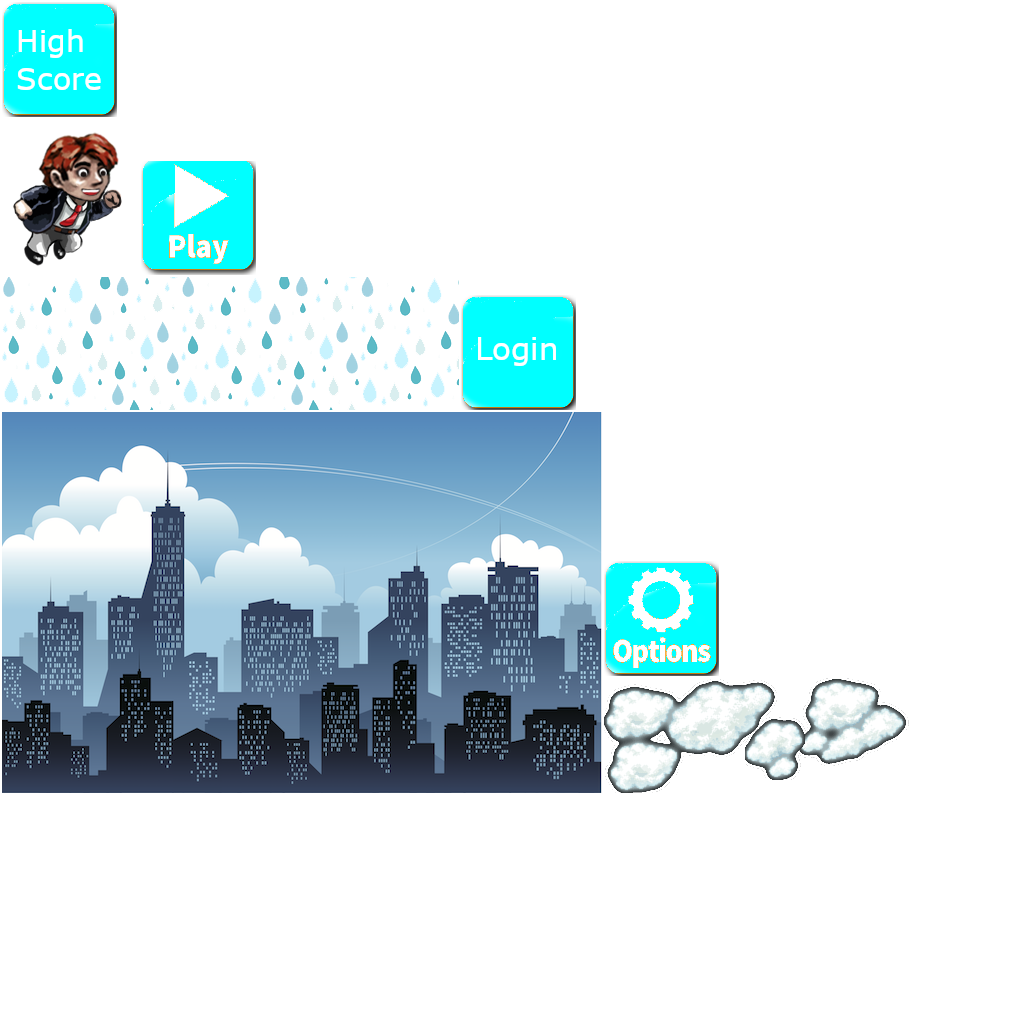
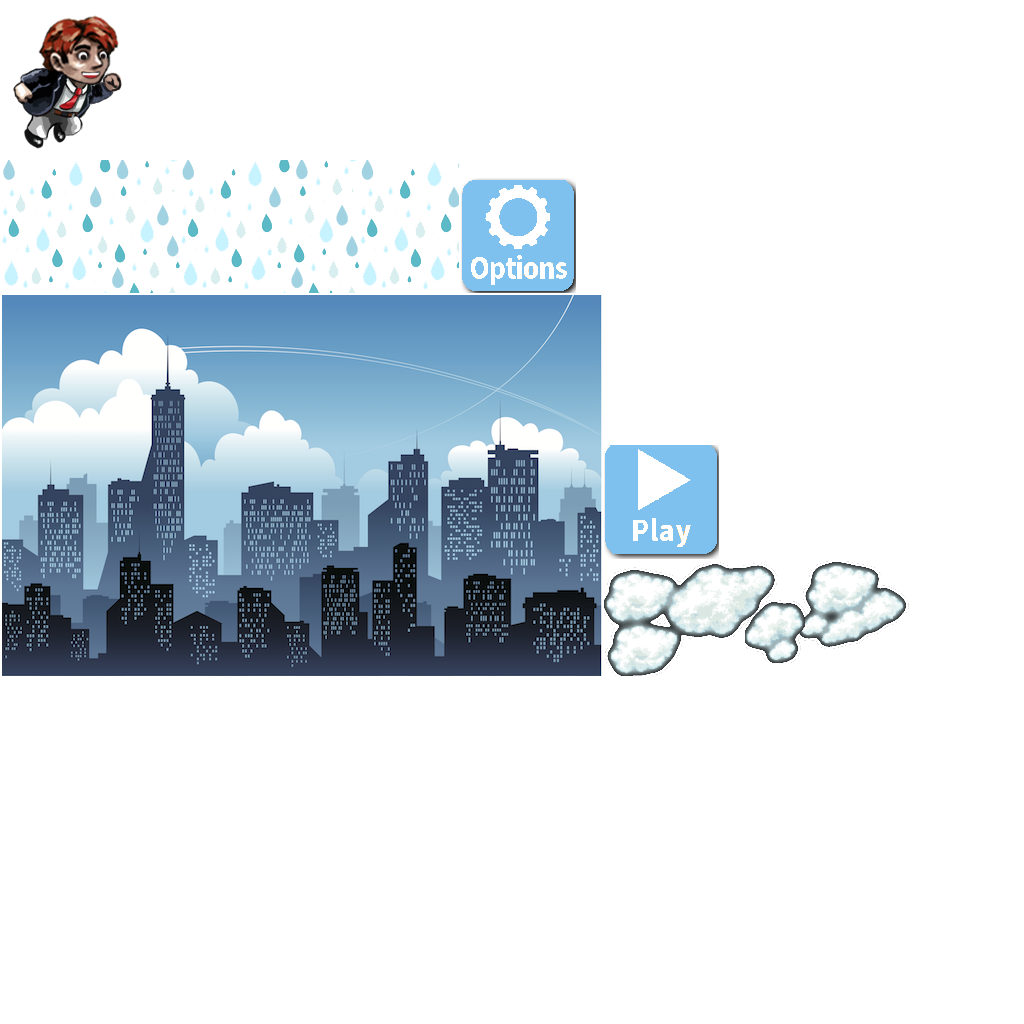
Fixed UI button to match the rest of the Main page of UI

diff --git a/core/src/com/mygdx/screens/MenuScreen.java b/core/src/com/mygdx/screens/MenuScreen.java
@@ -162,7 +162,7 @@ public class MenuScreen  extends AbstractGameScreen implements DestructionListen
 		  tbl.pad(10, 10, 0, 10);
 		  tbl.add(new Label("Player Login", skinLibgdx, "font", Color.GREEN)).colspan(2);
 		  tbl.row();
-		  login= new TextField("", skinLibgdx);
+		  login= new TextField("", skinLibgdx, "default");
 		  login.setProgrammaticChangeEvents(false);
 		  tbl.add(login);
 		  login.addListener(new InputListener() {
@@ -176,7 +176,14 @@ public class MenuScreen  extends AbstractGameScreen implements DestructionListen
 						}
 						else
 						{
-							player[count++]=character; 
+							if(count>=player.length)
+							{
+								; 
+							}
+							else
+							{
+								player[count++]=character; 
+							}
 							
 						}
 						 
@@ -362,6 +369,7 @@ public class MenuScreen  extends AbstractGameScreen implements DestructionListen
 		 
 		 
 		 btnMenuOptions = new Button(skinRainMaker, "options");
+		 btnMenuOptions.scaleBy(.38f);
 		 layer.add(btnMenuOptions).align(Align.bottomRight).expand();
 		 btnMenuOptions.addListener(new ChangeListener() {
 
@@ -384,7 +392,8 @@ public class MenuScreen  extends AbstractGameScreen implements DestructionListen
 		 }); 
 		 
 		//Play Button
-		 //layer.right().bottom();
+		 
+		 layer.add().expand();
 		 layer.add().expand();
 		 btnMenuPlay = new Button(skinRainMaker, "play");
 		 layer.add(btnMenuPlay).align(Align.bottomLeft).expand();
